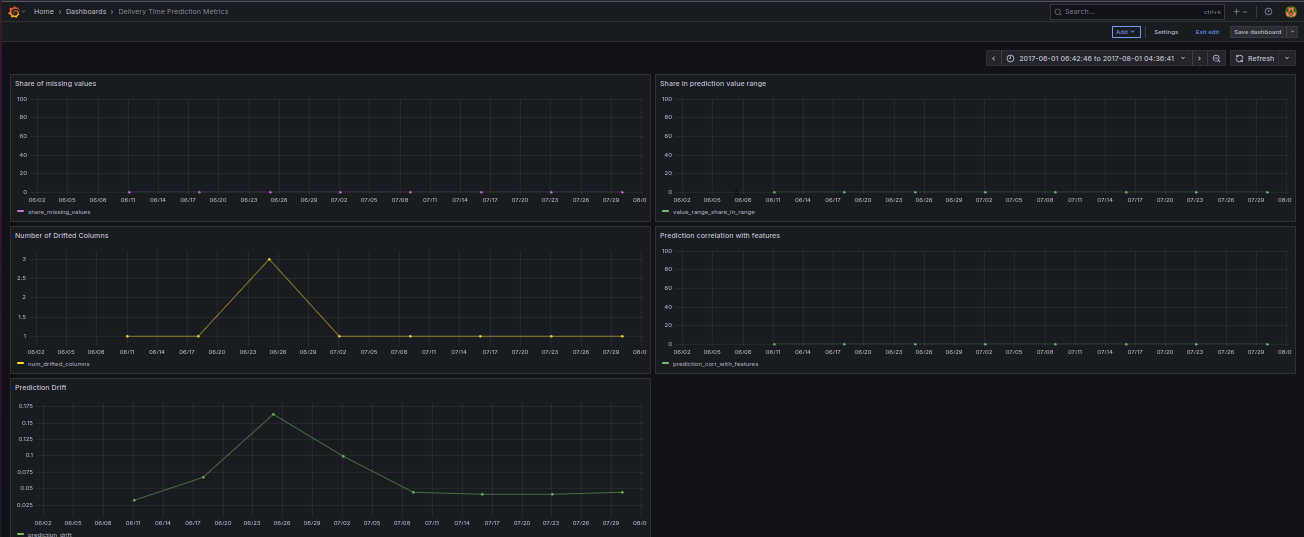
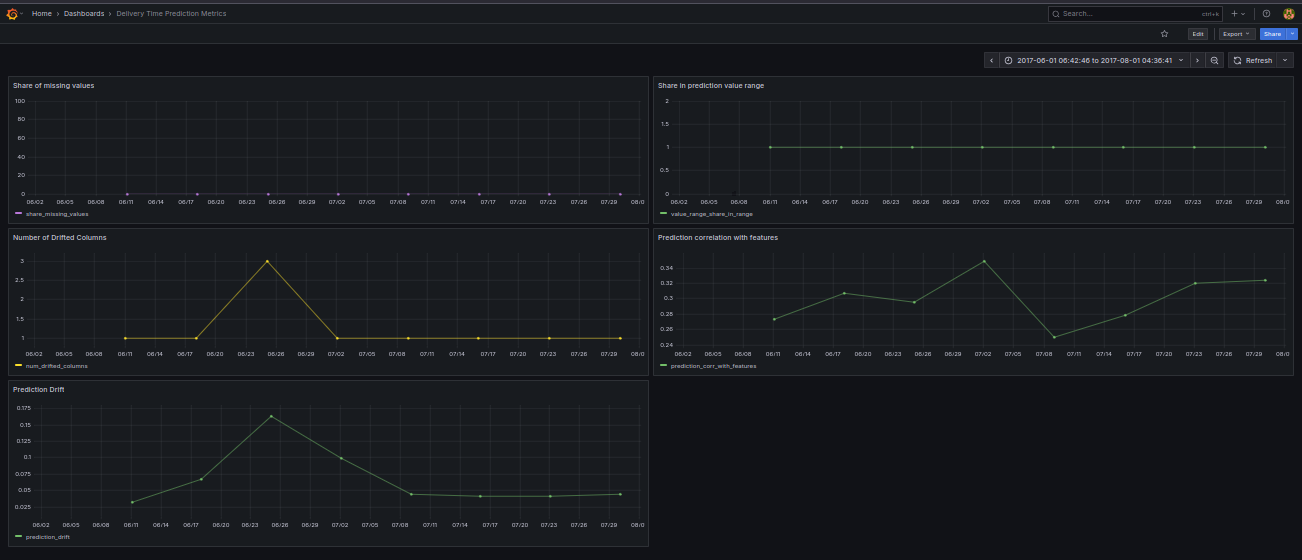
Fix: batch metric storage and visualization in Grafana
- Fixed incorrect use of reference data in value_range_share_in_range
- Replaced 'abs_mean' with custom calculation for prediction-feature correlation
- Explicitly added 'public.' schema when creating and inserting into model_metrics table
- Updated test command in README
- Added seaborn to Jupyter requirements
- Updated Grafana screenshot

diff --git a/src/batch_prediction_backfill.py b/src/batch_prediction_backfill.py
@@ -22,7 +22,8 @@ rand = random.Random()
 
 create_table_statement = """
 drop table if exists model_metrics;
-create table model_metrics(
+drop table if exists public.model_metrics;
+create table public.model_metrics(
 	timestamp timestamp,
 	prediction_drift float,
 	num_drifted_columns integer,
@@ -75,14 +76,19 @@ def calculate_metrics_postgresql(
     prediction_drift = result['metrics'][0]['result']['drift_score']
     num_drifted_columns = result['metrics'][1]['result']['number_of_drifted_columns']
     share_missing_values = result['metrics'][2]['result']['current']['share_of_missing_values']
-    value_range_result = result['metrics'][3]['result']
+    value_range_result = result['metrics'][3]['result']['reference']
     value_range_share_in_range = value_range_result.get('share_in_range', 0.0)
 
     correlations_result = result['metrics'][4]['result']
-    prediction_corr_with_features = correlations_result.get('pearson', {}).get('abs_mean', 0.0)
+    pearson_y = correlations_result.get('current', {}).get('pearson', {}).get('values', {}).get('y', [])
+
+    if pearson_y:
+        prediction_corr_with_features = sum(abs(val) for val in pearson_y) / len(pearson_y)
+    else:
+        prediction_corr_with_features = 0.0
 
     curr.execute(
-        "insert into model_metrics("
+        "insert into public.model_metrics("
         "timestamp, prediction_drift, num_drifted_columns, share_missing_values, value_range_share_in_range, prediction_corr_with_features"
         ") values (%s, %s, %s, %s, %s, %s)",
         (

diff --git a/README.md b/README.md
@@ -106,7 +106,7 @@ Before moving on to code style checks and deployment, we run unit and integratio
 #### Unit tests
 
 ```bash
-make tests
+make test
 ```
 
 This executes test test_prepare_data in src/tests/, including checks for data preprocessing logic
